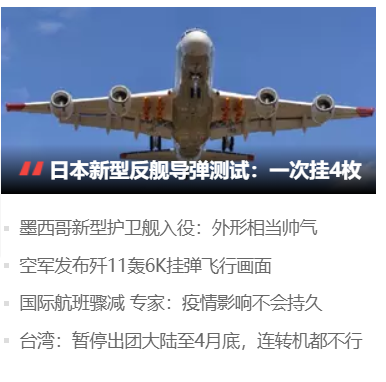
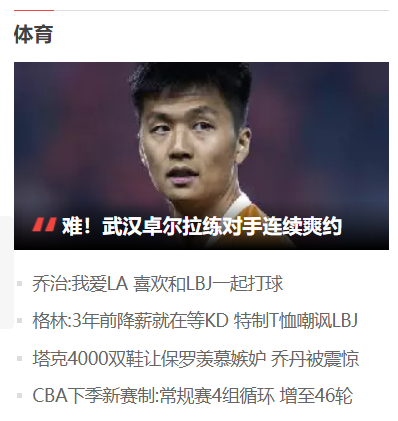
day12

diff --git a/练习/练习3网易新闻列表.html b/练习/练习3网易新闻列表.html
@@ -3,38 +3,107 @@
 <head>
     <meta charset="UTF-8">
     <title>网易新闻列表</title>
+    <link rel="stylesheet" href="../reset.css">
     <style>
-        img{
-            width: 400px;
+        body{
+            background-color: antiquewhite;
+        }
+
+        .news-block{
+            width: 300px;
+            height: 340px;
+            border-top: 1px solid #DADCE0;
+            background-color: white;
+            /* 方便观察 */
+            margin: 50px auto;
+        }
+
+        .news-title{
+            width: auto;
+            height: 40px;
+            line-height: 40px;
+            
+            display: inline-block;
+            border-top: 1px solid red;
         }
 
         a{
-            font-size: 20px;
+            text-decoration: none;
         }
 
-        a:link{
-            color: gray;
+        .news-title > a{
+            color: #404040;
+            font-weight: bold;
         }
+
+        .news-img{
+            height: 150px;
+        }
+
+        .news-img > img{
+            height: 100%;
+        }
+
+        .img-text{
+            width: 250px;
+            margin-left: auto;
+            margin-right: auto;
+            margin-top: -30px;
+            /* padding-left: 25px; */
+        }
+
+        .img-text > a{
+            color: #FFFFFF;
+            font-size: 16px;
+            font-weight: bold;
+        }
+
+        .news-list{
+            width: 100%;
+            height: 100%;
+        }
+
+        .news-list > .news-item{
+            margin: 10px;
+        }
+
+        .news-list > .news-item > a{
+            font-size: 16px;
+            color: #666666;
+        }
+
+        .news-list > .news-item > a:hover{
+            color: red;
+        }
+
+        
     </style>
 </head>
 <body>
-    <div>
-        <img src="./images/网易新闻列表练习素材1.jpg" alt="新闻图片" class="pic1">
+    <div class="news-block">
+        <h1 class="news-title">
+           <a href="xxx"> 军事</a>
+        </h1>
+        <div class="news-img">
+            <img src="./images/网易新闻列表练习素材1.jpg" alt="新闻素材">
+            <h2 class="img-text">
+                <a href="xxx">日本新型反舰导弹测试：一次挂4枚</a>
+            </h2>
+        </div>
+        <ul class="news-list">
+            <li class="news-item">
+                <a href="xxx">墨西哥新型护卫舰入役：外型相当帅气</a>
+            </li>
+            <li class="news-item">
+                <a href="xxx">空军发布歼十一轰6K挂弹飞行画面</a>
+            </li>
+            <li class="news-item">
+                <a href="xxx">国际航班骤减 专家：疫情影响不会持久</a>
+            </li>
+            <li class="news-item">
+                <a href="xxx">台湾：暂停出团大陆至4月底，连转机都不行</a>
+            </li>
+        </ul>
     </div>
-    <div>
-        <a href="xxx">墨西哥新型护卫舰入役</a>
-    </div>
-    <br>
-    <div>
-
-        <a href="xxx">空军发布歼十六轰6K挂弹飞行画面</a>
-    </div>
-    <br>
-    <div>
-
-        <a href="xxx">国际航班骤减 专家：疫情不会持久</a>
-    </div>
-    <br>
-    <div><a href="xxx">台湾：暂停出团大陆至4月底，连转机都不行</a></div>
 </body>
 </html>
